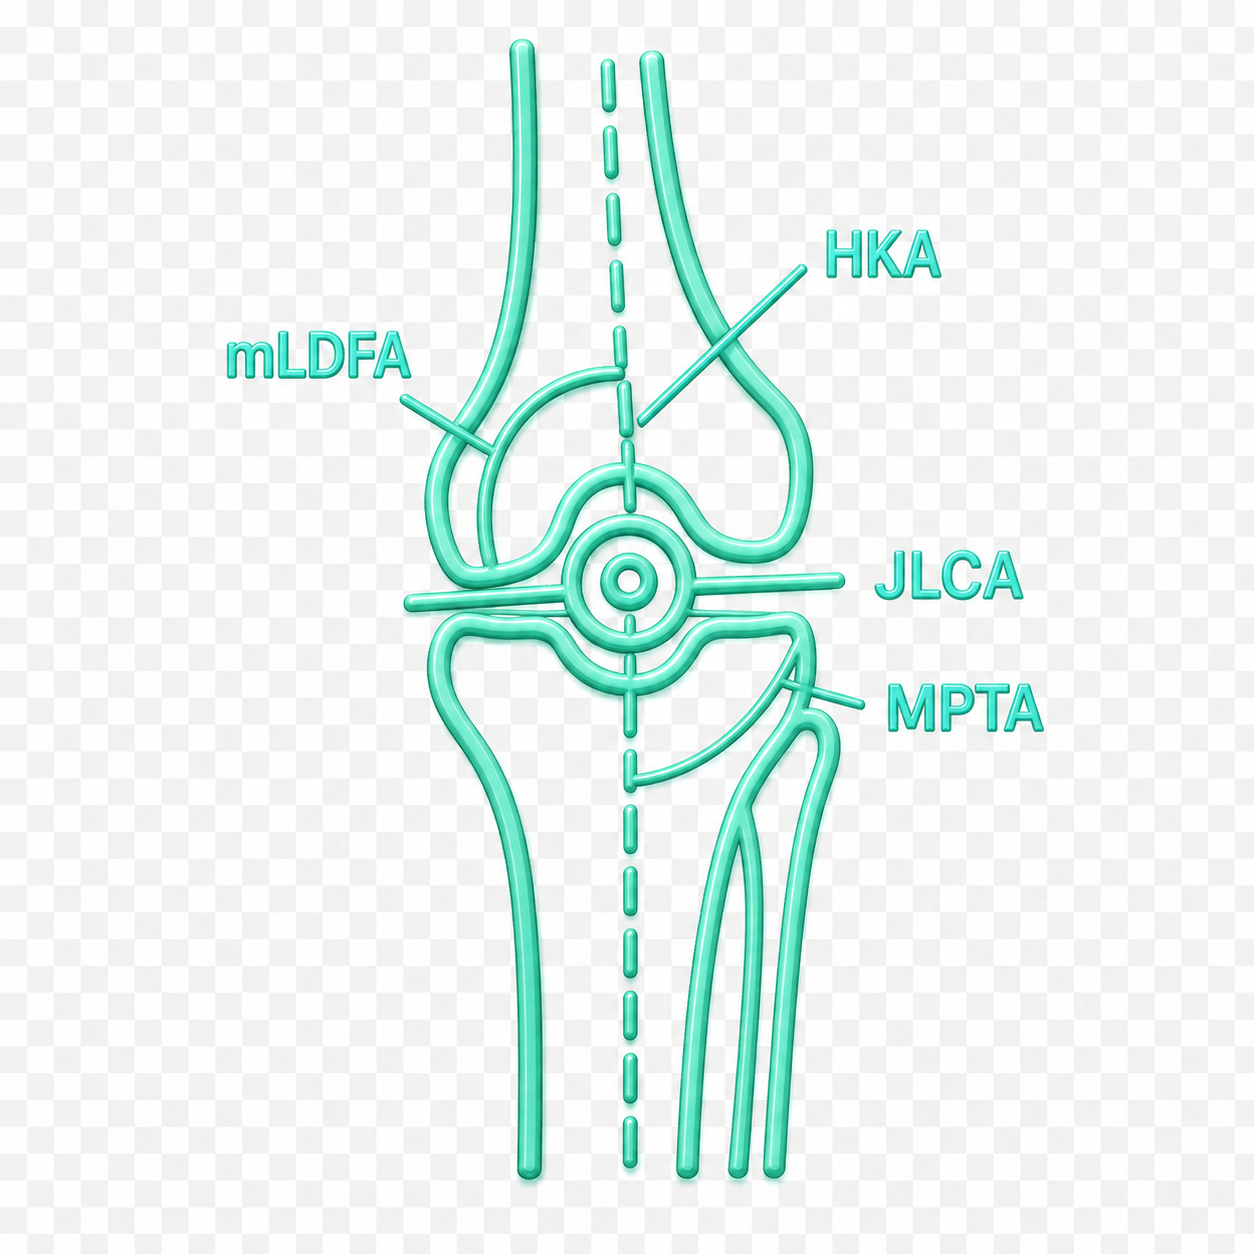
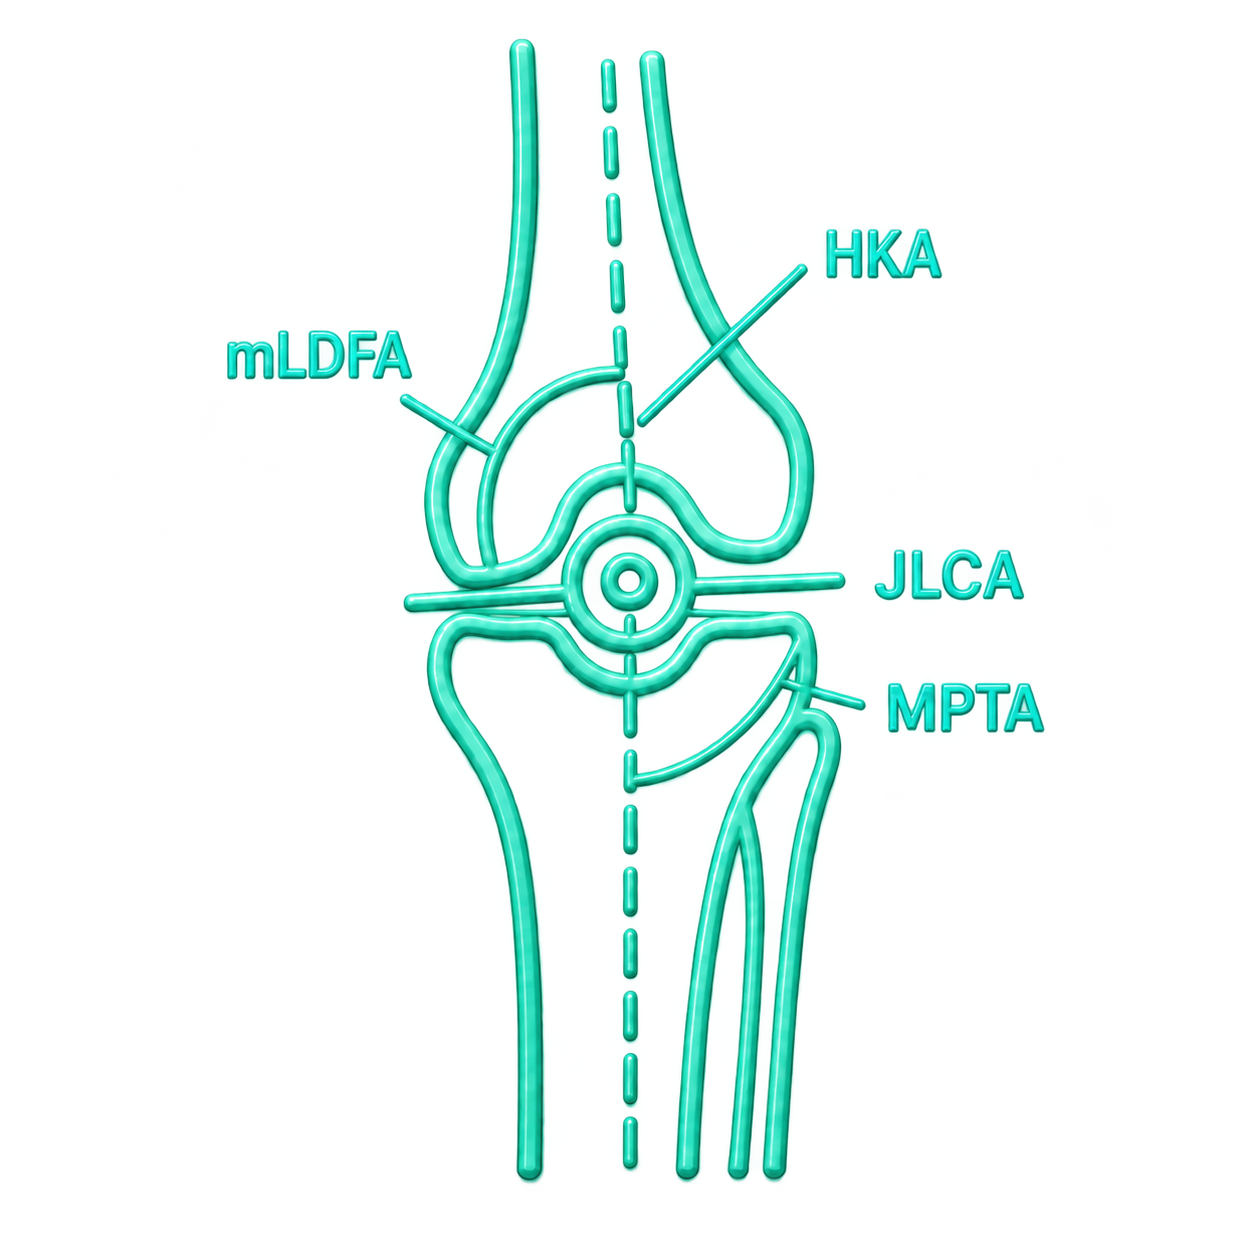
Make Standard image transparent and larger

Changed region(s): [[0.1555, 0.0311, 0.8397, 0.9641], [0.6842, 0.4354, 0.8086, 0.4976], [0.6531, 0.1866, 0.7464, 0.2177]]

diff --git a/styles.css b/styles.css
@@ -89,7 +89,7 @@ a{color:inherit}
 .app-section{background:linear-gradient(145deg,#0b1117,#080b0f);border-top:1px solid var(--line);border-bottom:1px solid var(--line)}
 .app-grid{display:grid;grid-template-columns:.72fr 1.28fr;gap:80px;align-items:center}
 .app-icon-wrap{position:relative;display:grid;place-items:center}.app-icon-wrap:before{content:"";position:absolute;width:80%;aspect-ratio:1;border-radius:50%;background:rgba(68,227,194,.15);filter:blur(45px)}
-.app-icon-wrap img{position:relative;width:min(360px,90%);height:auto;border-radius:26%;box-shadow:0 32px 70px rgba(0,0,0,.42)}
+.app-icon-wrap img{position:relative;width:min(540px,135%);height:auto;border-radius:0;box-shadow:none}
 .privacy-points{list-style:none;margin:27px 0 31px;padding:0;display:grid;gap:12px}.privacy-points li{display:flex;align-items:center;gap:12px;color:#c6d0da}.privacy-points li>span:first-child{display:grid;place-items:center;width:24px;height:24px;border-radius:50%;background:rgba(68,227,194,.12);color:var(--accent);font-weight:800}.privacy-button{width:max-content}.app-actions{display:flex;flex-wrap:wrap;gap:12px}
 
 .about-section{border-top:1px solid rgba(255,255,255,.06);background:#0b0f14}.about-inner{display:grid;grid-template-columns:.8fr 1.2fr;gap:80px;padding:98px 0}.disclaimer{padding:18px 20px;border-left:2px solid var(--accent);background:rgba(68,227,194,.03);color:#aeb8c6}.disclaimer strong{color:#ecf4f8}.contact-line a{color:var(--accent);text-underline-offset:4px}
@@ -112,7 +112,7 @@ a{color:inherit}
   .nav{display:none;order:4;width:100%;flex-direction:column;align-items:flex-start;gap:0;padding:10px 0 5px}.nav.open{display:flex}.nav a{width:100%;padding:10px 0;border-bottom:1px solid rgba(255,255,255,.05)}
   .hero{grid-template-columns:1fr;padding-top:58px}.hero-visual{min-height:680px;width:min(540px,100%);margin-inline:auto}.workflow-grid,.measurement-grid,.research-stats{grid-template-columns:repeat(2,1fr)}
   .cpak-panel,.about-inner,.app-grid{grid-template-columns:1fr}.trust-strip{overflow:auto;justify-content:flex-start}.research-stats div:nth-child(2){border-right:0}.research-stats div{border-bottom:1px solid rgba(255,255,255,.07)}
-  .app-grid{gap:55px}.app-icon-wrap img{width:min(310px,72vw)}
+  .app-grid{gap:55px}.app-icon-wrap img{width:min(465px,92vw)}
   .privacy-hero,.privacy-contact{grid-template-columns:1fr}.privacy-status-card{justify-self:start}.policy-grid{grid-template-columns:1fr}
 }
 @media(max-width:620px){

diff --git a/index.html b/index.html
@@ -191,7 +191,7 @@
 
     <section id="app" class="section-block app-section">
       <div class="section-shell app-grid">
-        <div class="app-icon-wrap reveal"><img src="/kneeplanai-measurements-icon.png?v=1" alt="KneePlanAI alignment measurements" width="1254" height="1254" /></div>
+        <div class="app-icon-wrap reveal"><img src="/kneeplanai-measurements-icon.png?v=2" alt="KneePlanAI alignment measurements" width="1254" height="1254" /></div>
         <div class="app-copy reveal">
           <p class="kicker">KNEEPLANAI STANDARD · macOS</p>
           <h2 data-es="Privacidad clínica desde el diseño." data-en="Clinical privacy by design.">Privacidad clínica desde el diseño.</h2>
